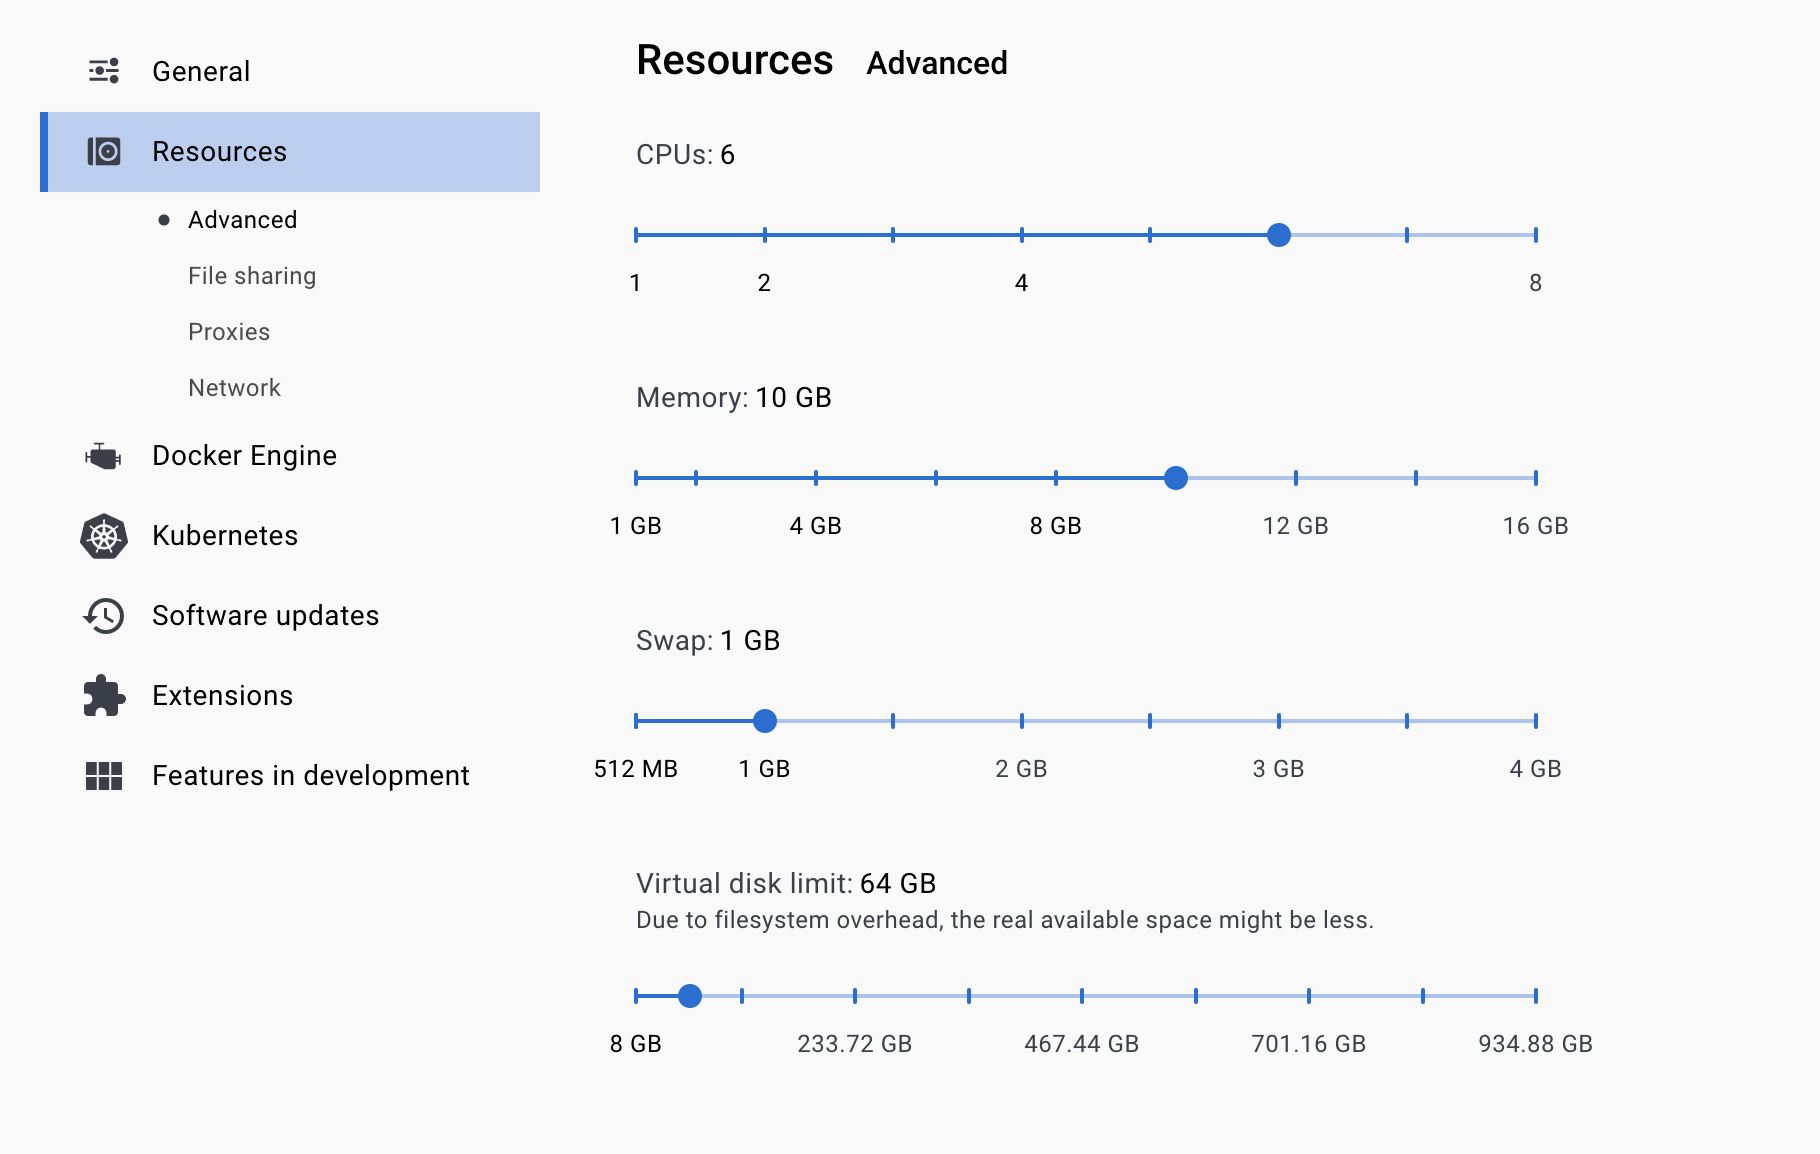
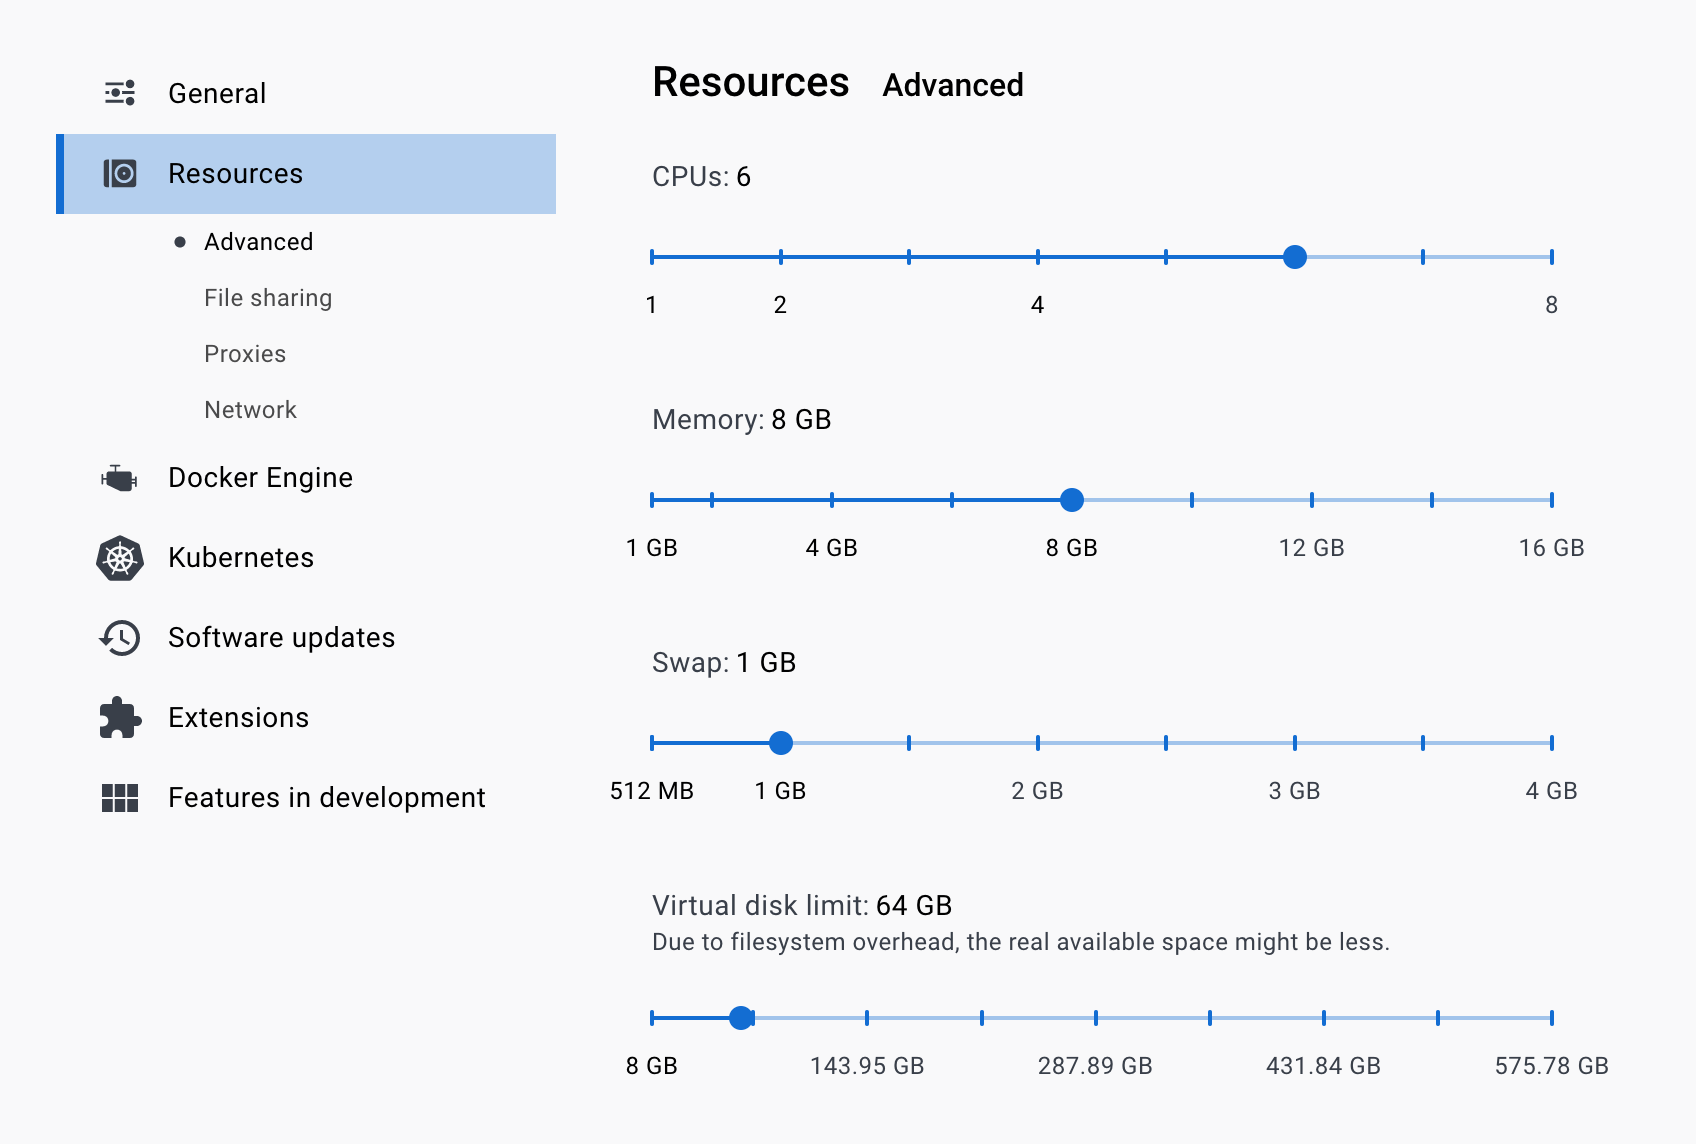
Improve stability of local node (#312)

diff --git a/cli.js b/cli.js
@@ -91,12 +91,12 @@ Requirements:
   - Docker Compose => v2.12.2
       Docker Compose version check: docker compose version
 
-  * Ensure the gRPC FUSE for file sharing setting is disabled in the docker settings
+  * Ensure the gRPC FUSE for file sharing setting is disabled in the docker settings and VirtioFS is enabled
   * Ensure the following configurations are set at minimum in Docker Settings -> Resources and are available for use
       CPUs: 6
-      Memory: 5GB
+      Memory: 8GB
       Swap: 1 GB
-      Disk Image Size: 59.6 GB`)
+      Disk Image Size: 64 GB`)
   .parse();
 
 async function main(accounts, balance, detached, host) {

diff --git a/src/utils/nodeController.js b/src/utils/nodeController.js
@@ -17,6 +17,7 @@ module.exports = class NodeController {
     const nullOutput = this.getNullOutput();
     console.log("Stopping the network...");
     shell.cd(__dirname);
+    shell.cd("../../");
     console.log("Stopping the docker containers...");
     shell.exec(`docker compose kill 2>${nullOutput}`);
     shell.exec(`docker compose down -v 2>${nullOutput}`);

diff --git a/README.md b/README.md
@@ -29,7 +29,7 @@ Note: The image may look different if you are on a different version
   - **CPUs:** 6
   - **Memory:** 8GB
   - **Swap:** 1 GB
-  - **Disk Image Size:** 60 GB
+  - **Disk Image Size:** 64 GB
 
 Note: The image may look different if you are on a different version
 ![settings.png](https://raw.githubusercontent.com/hashgraph/hedera-local-node/main/settings.png)
